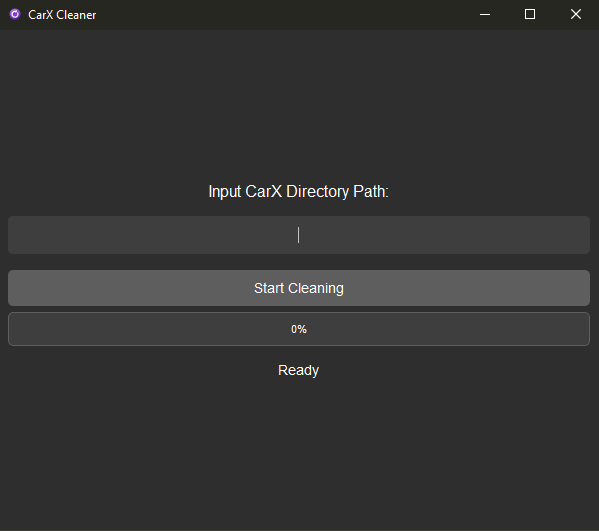
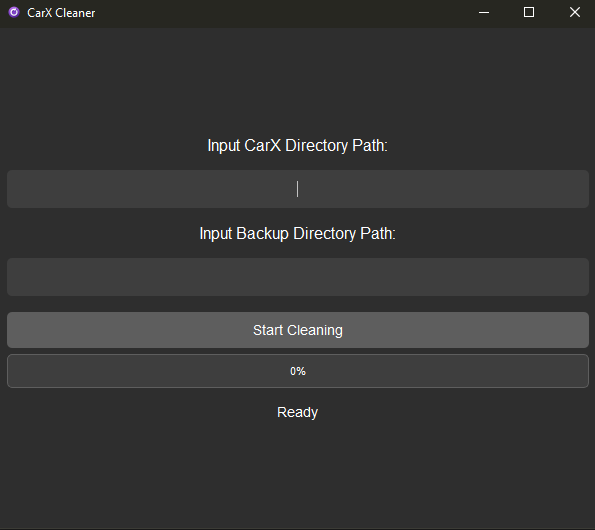
Backups!
Added Backups, can definitely be improved later on but for now it works making sure mod data/progress isn't lost when cleaning the directory.

diff --git a/src/cleaner/cleaner.py b/src/cleaner/cleaner.py
@@ -1,25 +1,25 @@
 import os
 import json
+import shutil
+import time
 from src.helpers.find import find_files_for_hashing
+from src.helpers.backup import backup_files
 
 def load_original_hashes(input_file):
     with open(input_file, 'r') as f:
         return json.load(f)
 
-def start_cleaning_process(directory, progress_bar):
-    original_hashes = load_original_hashes('src/hashes/relative_hashes.txt')
-    original_files = set(original_hashes.keys())
-    modded_files = find_files_for_hashing(directory, original_files)
-    
-    if not modded_files:
-        print("No modded files found. The directory is either empty or all files are original.")
-        return
-    
+def clean_files(directory, original_files, modded_files, backup_directory, progress_bar):
     total_files = len(modded_files)
     for index, file in enumerate(modded_files):
         relative_file = os.path.relpath(file, directory)
         if relative_file not in original_files:
             try:
+                backup_file_path = os.path.join(backup_directory, relative_file)
+                backup_dir = os.path.dirname(backup_file_path)
+                if not os.path.exists(backup_dir):
+                    os.makedirs(backup_dir)
+                shutil.copy2(file, backup_file_path)
                 os.remove(file)
             except Exception as e:
                 print(f"Error deleting file {file}: {e}")
@@ -33,18 +33,21 @@ def start_cleaning_process(directory, progress_bar):
             relative_dir = os.path.relpath(dir_path, directory)
             if relative_dir not in original_files:
                 try:
-                    for file in os.listdir(dir_path):
-                        file_path = os.path.join(dir_path, file)
-                        relative_file_path = os.path.relpath(file_path, directory)
-                        if relative_file_path not in original_files:
-                            if os.path.isfile(file_path):
-                                os.remove(file_path)
-                            elif os.path.isdir(file_path) and not os.listdir(file_path):
-                                os.rmdir(file_path)
-                    if not os.listdir(dir_path):
-                        os.rmdir(dir_path)
+                    shutil.rmtree(dir_path)
                 except Exception as e:
                     print(f"Error deleting directory {dir_path}: {e}")
 
-if __name__ == "__main__":
-    start_cleaning_process('path_to_carx_directory', None)
+def start_cleaning_process(game_directory, backup_base_directory, progress_bar=None):
+    original_hashes = load_original_hashes('src/hashes/relative_hashes.txt')
+    original_files = set(original_hashes.keys())
+    modded_files = find_files_for_hashing(game_directory, original_files)
+    
+    if not modded_files:
+        print("No modded files found. The directory is either empty or all files are original.")
+        return
+    
+    backup_directory = backup_files(modded_files, backup_base_directory)
+    
+    time.sleep(10)
+    
+    clean_files(game_directory, original_files, modded_files, backup_directory, progress_bar)

diff --git a/src/gui/gui.py b/src/gui/gui.py
@@ -25,14 +25,15 @@ class CleaningThread(QtCore.QThread):
     progress = QtCore.pyqtSignal(int)
     status = QtCore.pyqtSignal(str)
 
-    def __init__(self, directory):
+    def __init__(self, game_directory, backup_directory):
         super().__init__()
-        self.directory = directory
+        self.game_directory = game_directory
+        self.backup_directory = backup_directory
 
     def run(self):
         try:
             self.status.emit("In-Progress")
-            start_cleaning_process(self.directory, self)
+            start_cleaning_process(self.game_directory, self.backup_directory, self)
             self.status.emit("Completed")
         except Exception as e:
             self.status.emit("Error")
@@ -82,6 +83,26 @@ class MainWindow(QtWidgets.QMainWindow):
         """)
         self.layout.addWidget(self.lineEdit)
 
+        self.backup_label = QtWidgets.QLabel("Input Backup Directory Path:")
+        self.backup_label.setAlignment(QtCore.Qt.AlignCenter)
+        self.backup_label.setStyleSheet("""
+            color: #ffffff; 
+            padding: 10px; 
+            font-size: 16px;
+        """)
+        self.layout.addWidget(self.backup_label)
+
+        self.backup_lineEdit = QtWidgets.QLineEdit()
+        self.backup_lineEdit.setAlignment(QtCore.Qt.AlignCenter)
+        self.backup_lineEdit.setStyleSheet("""
+            background-color: #3e3e3e; 
+            color: #ffffff; 
+            padding: 10px; 
+            border-radius: 5px;
+            font-size: 14px;
+        """)
+        self.layout.addWidget(self.backup_lineEdit)
+
         self.clean_button = QtWidgets.QPushButton("Start Cleaning", self)
         self.clean_button.setStyleSheet("""
             background-color: #5e5e5e; 
@@ -122,13 +143,14 @@ class MainWindow(QtWidgets.QMainWindow):
         self.layout.addWidget(self.status_label)
 
     def start_cleaning(self):
-        directory = self.lineEdit.text()
-        if directory:
+        game_directory = self.lineEdit.text()
+        backup_directory = self.backup_lineEdit.text()
+        if game_directory and backup_directory:
             self.clean_button.setEnabled(False)
             self.progress_bar.setValue(0)
             self.status_label.setText("In-Progress")
 
-            self.cleaning_thread = CleaningThread(directory)
+            self.cleaning_thread = CleaningThread(game_directory, backup_directory)
             self.cleaning_thread.progress.connect(self.progress_bar.setValue)
             self.cleaning_thread.status.connect(self.update_status)
             self.cleaning_thread.finished.connect(self.cleaning_finished)

diff --git a/src/helpers/backup.py b/src/helpers/backup.py
@@ -1,1 +1,38 @@
-# Will write the logic for this later today 🧙♂🧙♂
+import os
+import shutil
+from datetime import datetime
+import time
+
+def create_backup_directory(base_directory):
+    backups_directory = os.path.join(base_directory, 'Backups')
+    if not os.path.exists(backups_directory):
+        os.makedirs(backups_directory)
+    
+    timestamp = datetime.now().strftime('%Y%m%d_%H%M%S')
+    backup_directory = os.path.join(backups_directory, timestamp)
+    if not os.path.exists(backup_directory):
+        os.makedirs(backup_directory)
+    
+    return backup_directory
+
+def backup_file(file_path, backup_directory, retries=5, delay=10):
+    for attempt in range(retries):
+        try:
+            relative_path = os.path.relpath(file_path, backup_directory)
+            backup_path = os.path.join(backup_directory, relative_path)
+            backup_dir = os.path.dirname(backup_path)
+            if not os.path.exists(backup_dir):
+                os.makedirs(backup_dir)
+            shutil.copy2(file_path, backup_path)
+            return
+        except Exception as e:
+            if attempt < retries - 1:
+                time.sleep(delay)
+            else:
+                print(f"Error backing up file {file_path}: {e}")
+
+def backup_files(files, backup_base_directory):
+    backup_directory = create_backup_directory(backup_base_directory)
+    for file in files:
+        backup_file(file, backup_directory)
+    return backup_directory

diff --git a/README.md b/README.md
@@ -19,7 +19,9 @@ User-friendly PyQt5 GUI
 <p align="center">
 Supports relative paths for universal compatibility
 </p>
-
+<p align="center">
+Automatically backups mod files when provided with a path ensuring you don't lose mod data/progress
+</p>
 
 <h2 align="center">Installation</h2>
 <p align="center">
@@ -91,15 +93,15 @@ Contributions are welcome! Please follow these steps to contribute:
 5. Create a new Pull Request
 ```
 
-<h2 align="center">License</h2>
-<p align="center">
-This project is licensed under the MIT License. See the LICENSE file for details.
-</p>
-
 <h2 align="center">Screenshot</h2>
 <p align="center">
   <img src="images/screenshot/screenshot.PNG" alt="Logo">
 </p>
+</p>
+
+<h2 align="center">License</h2>
+<p align="center">
+This project is licensed under the MIT License. See the LICENSE file for details.
 </p>
 
 <h2 align="center">Acknowledgements</h2>
